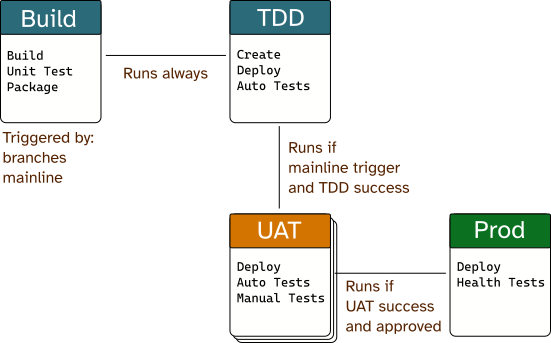
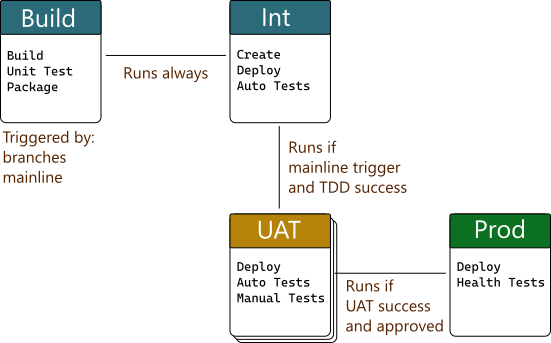
Publish post

diff --git a/index9.html b/index9.html
@@ -81,6 +81,7 @@
 <h2 id="contents">Contents</h2>
 <!-- Start Document Outline -->
 <ul>
+<li><a href="#contents">Contents</a></li>
 <li><a href="#local-development-cycle">Local Development Cycle</a></li>
 <li><a href="#pull-requests-and-code-reviews">Pull Requests and Code Reviews</a></li>
 <li><a href="#continuous-integration">Continuous Integration</a></li>
@@ -97,7 +98,7 @@
 <ol>
 <li>Pull and rebase latest code from mainline.</li>
 <li>Work from a short-lived feature branch.</li>
-<li>Unit test, frequently commit locally, push branch when it passes tests.</li>
+<li>Unit test, frequently commit locally, push feature branch when it passes tests.</li>
 <li>Integrate latest mainline locally, run private build/tests, push.</li>
 <li>Final push, create a pull request.</li>
 </ol>
@@ -117,8 +118,8 @@
 <ul>
 <li>CI Server is triggered by source control changes.</li>
 <li><strong>Build</strong> Triggered by mainline and feature branch changes. Build in clean environment, run unit tests, create deployment package.</li>
-<li><strong>TDD</strong>  Always runs and fully automated. Environment is created and deployed to from scratch. Automated integration tests run.</li>
-<li><strong>UAT</strong>  Runs if mainline changes and TDD succeeds. Existing environments deployed to. Some automated testing. Users perform acceptance tests.</li>
+<li><strong>Integration</strong>  Always runs and fully automated. Environment is created and deployed to from scratch. Automated integration tests run. Jeffrey Palermo calls this the TDD stage.</li>
+<li><strong>UAT</strong>  There are many kinds of UAT environments: QA, user acceptance, security, performance. Runs if mainline changes and Integration succeeds. Existing environments deployed to. Some automated testing.</li>
 <li><strong>Prod</strong> Runs if UAT succeeds and deployment is approved. Existing environment deployed to. Some automated smoke testing. Can require approval.</li>
 </ul>
 <p><img src="https://www.softwaremeadows.com/posts/professional_development_fundamentals/images/ci-basic.png" alt="" /></p>

diff --git a/posts/professional_development_fundamentals/index.html b/posts/professional_development_fundamentals/index.html
@@ -71,6 +71,7 @@
 <h2 id="contents">Contents</h2>
 <!-- Start Document Outline -->
 <ul>
+<li><a href="#contents">Contents</a></li>
 <li><a href="#local-development-cycle">Local Development Cycle</a></li>
 <li><a href="#pull-requests-and-code-reviews">Pull Requests and Code Reviews</a></li>
 <li><a href="#continuous-integration">Continuous Integration</a></li>
@@ -87,7 +88,7 @@
 <ol>
 <li>Pull and rebase latest code from mainline.</li>
 <li>Work from a short-lived feature branch.</li>
-<li>Unit test, frequently commit locally, push branch when it passes tests.</li>
+<li>Unit test, frequently commit locally, push feature branch when it passes tests.</li>
 <li>Integrate latest mainline locally, run private build/tests, push.</li>
 <li>Final push, create a pull request.</li>
 </ol>
@@ -107,8 +108,8 @@
 <ul>
 <li>CI Server is triggered by source control changes.</li>
 <li><strong>Build</strong> Triggered by mainline and feature branch changes. Build in clean environment, run unit tests, create deployment package.</li>
-<li><strong>TDD</strong>  Always runs and fully automated. Environment is created and deployed to from scratch. Automated integration tests run.</li>
-<li><strong>UAT</strong>  Runs if mainline changes and TDD succeeds. Existing environments deployed to. Some automated testing. Users perform acceptance tests.</li>
+<li><strong>Integration</strong>  Always runs and fully automated. Environment is created and deployed to from scratch. Automated integration tests run. Jeffrey Palermo calls this the TDD stage.</li>
+<li><strong>UAT</strong>  There are many kinds of UAT environments: QA, user acceptance, security, performance. Runs if mainline changes and Integration succeeds. Existing environments deployed to. Some automated testing.</li>
 <li><strong>Prod</strong> Runs if UAT succeeds and deployment is approved. Existing environment deployed to. Some automated smoke testing. Can require approval.</li>
 </ul>
 <p><img src="https://www.softwaremeadows.com/posts/professional_development_fundamentals/images/ci-basic.png" alt="" /></p>
